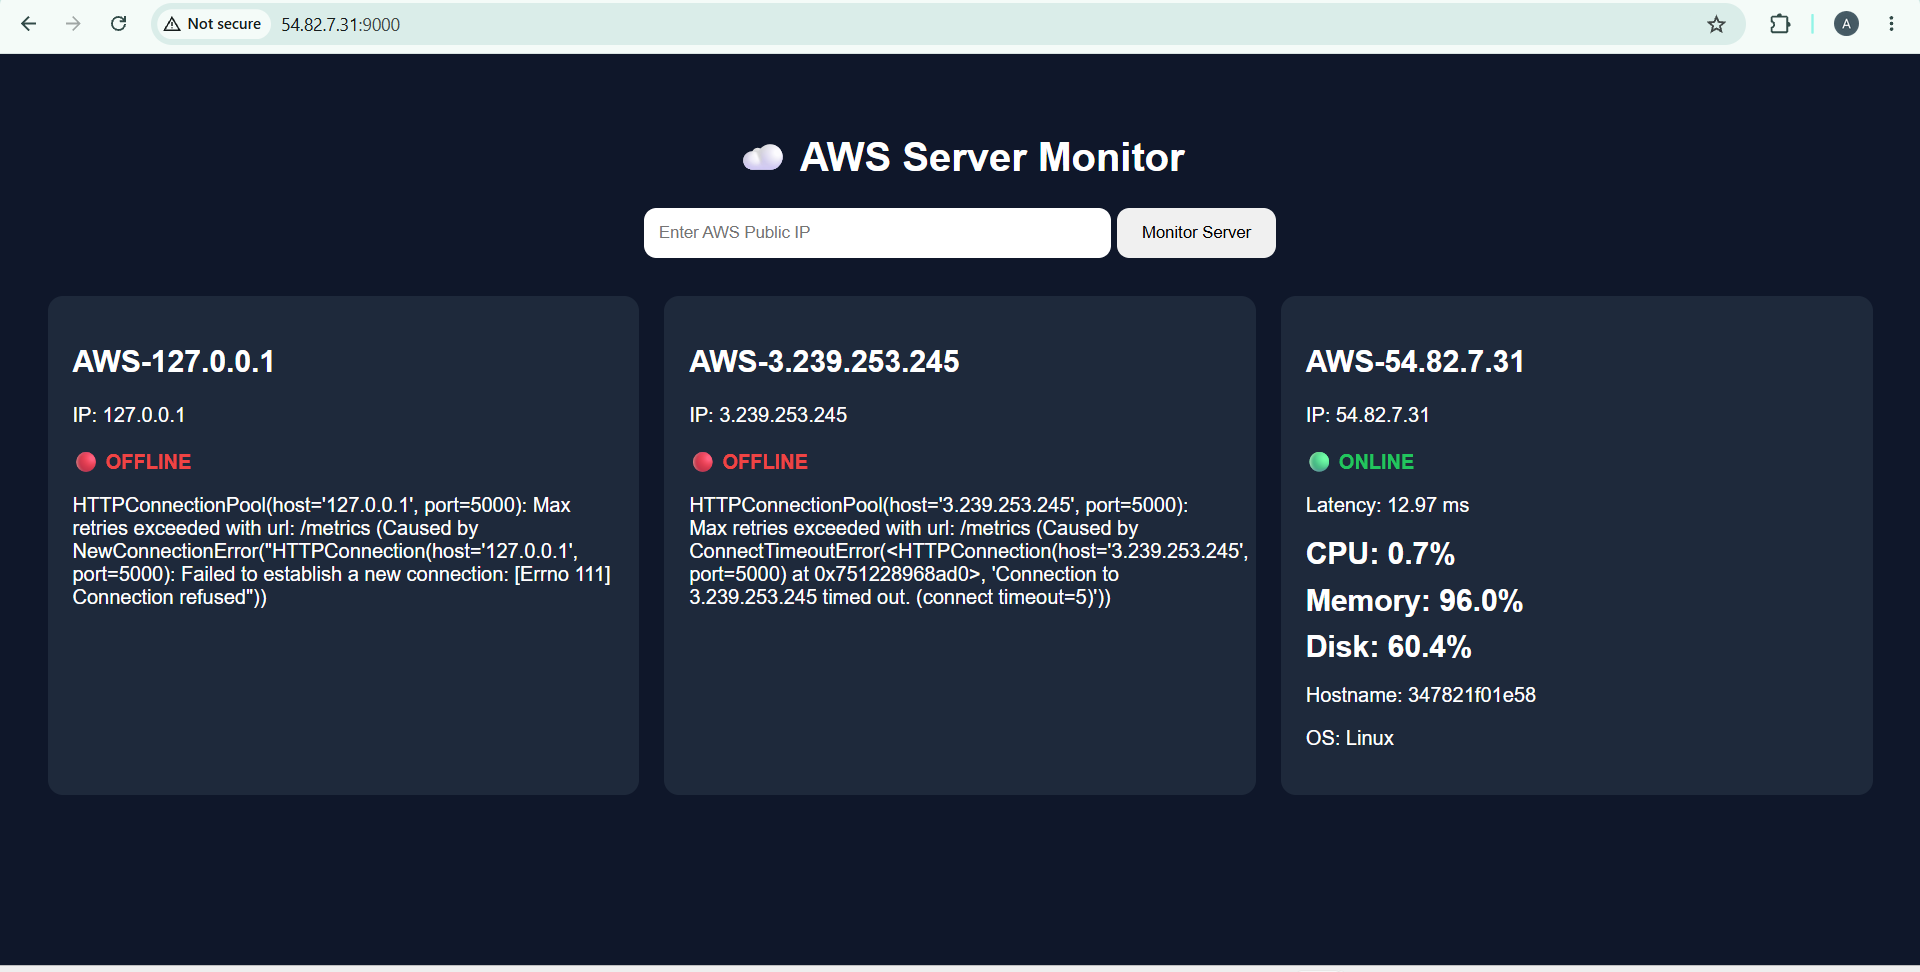
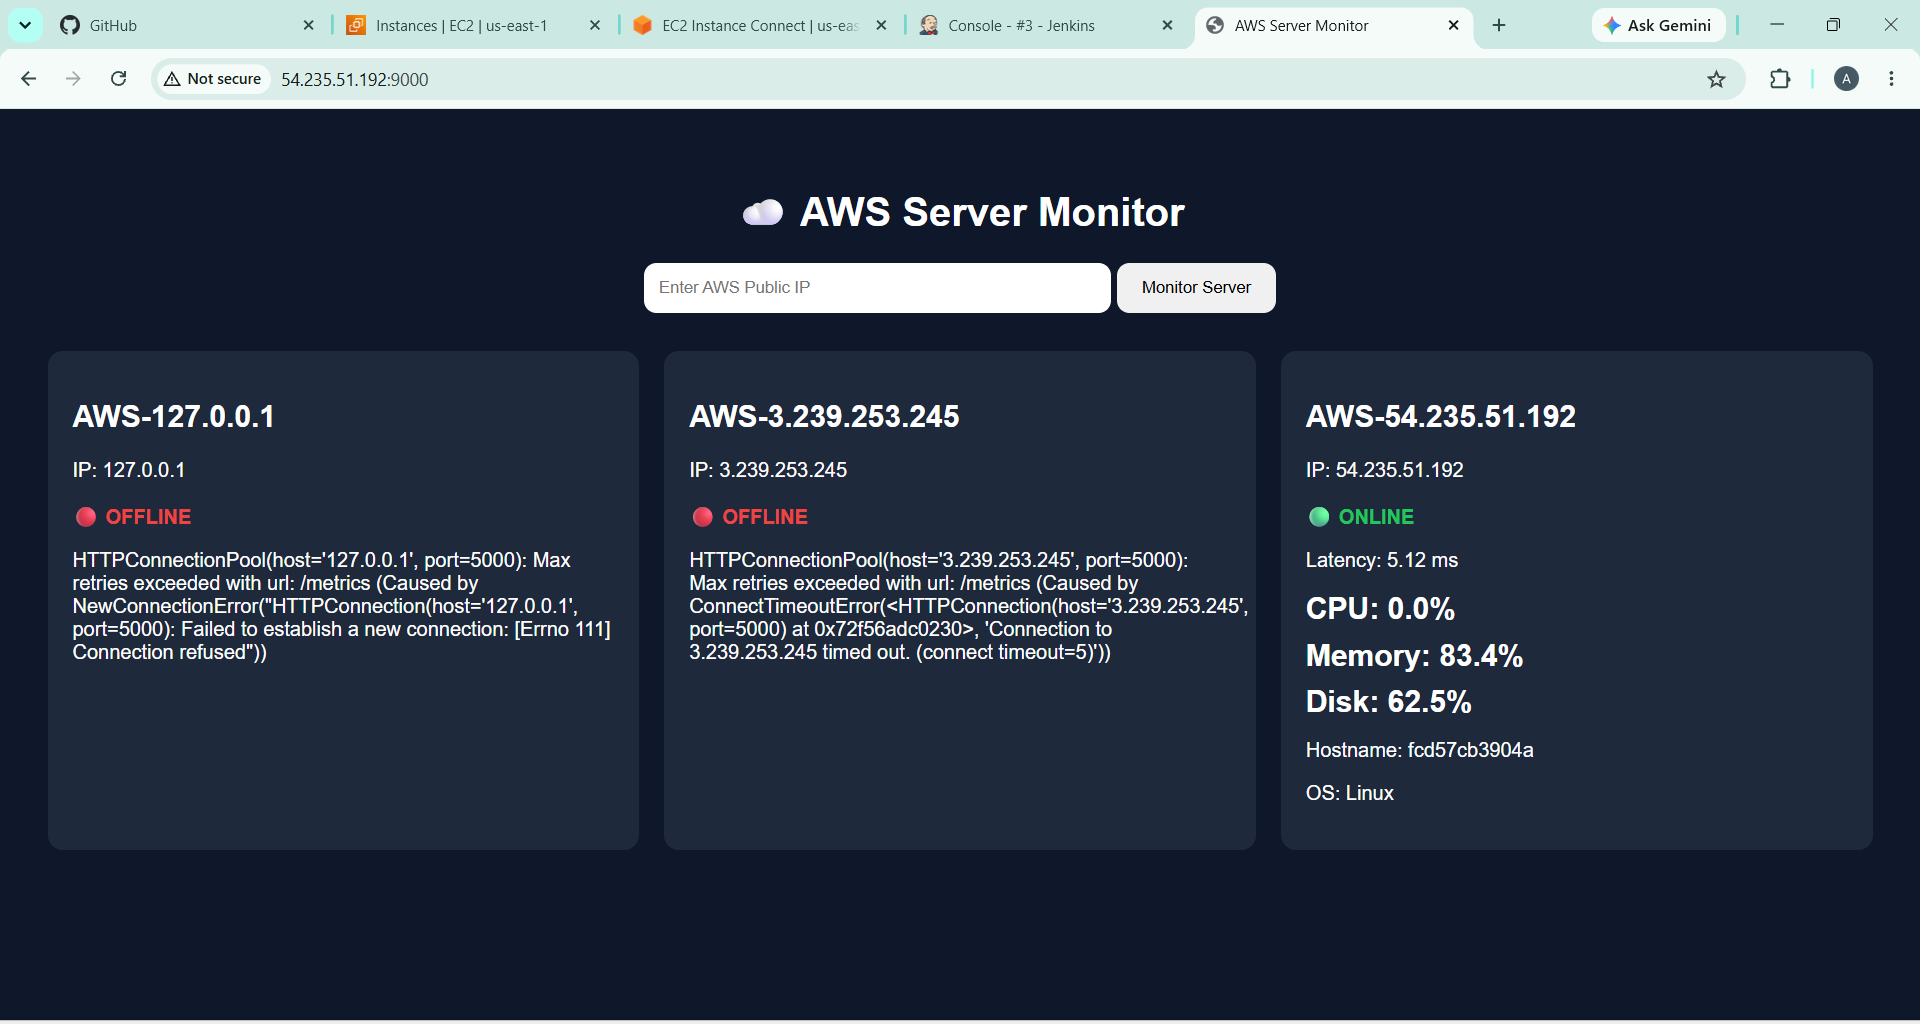
Added screenshots

diff --git a/README.md b/README.md
@@ -239,18 +239,20 @@ Just the push event
 ## Project screenshots
 
 ## AWS
-![EC2-1](.github/AWS%20ec2.png)
+![EC2-1](.github/AWS%20EC2.png)
 ## JENKINS
-![Jenkins Dashboard](.github/)
-![Build success](.github)
+![Jenkins Dashboard](.github/Jenkins%20Dashboard..png)
+![Build success](.github/Jenkins%20Build%20Success%20(2).png)
+![Jenkins Trigger](.github/Jenkins%20trigger.png)
 ## DOCKER
-![Docker container](.github/Docker%20containers.png)
+![Docker container](.github/Docker%20Containers.png)
 ## GITHUB
-![Github Repo](.github/GitHub%20repo.png)
+![Github Repo](.github/Github%20Repo..png)
+![Github Webhook](.github/Github%20Webhook.png)
 ## AWS server
 ![AWS Server Dashboard](.github/AWS%20server%20Monitor.png)
 ## Cloudops Monitor
-![Monitor](.github/Cloudops%20Monitor.png)
+![Monitor](.github/Cloud%20Monitor..png)
 ## 🔍 Challenges Faced & Resolutions
 
 # Jenkins Node Offline Due to Disk Space